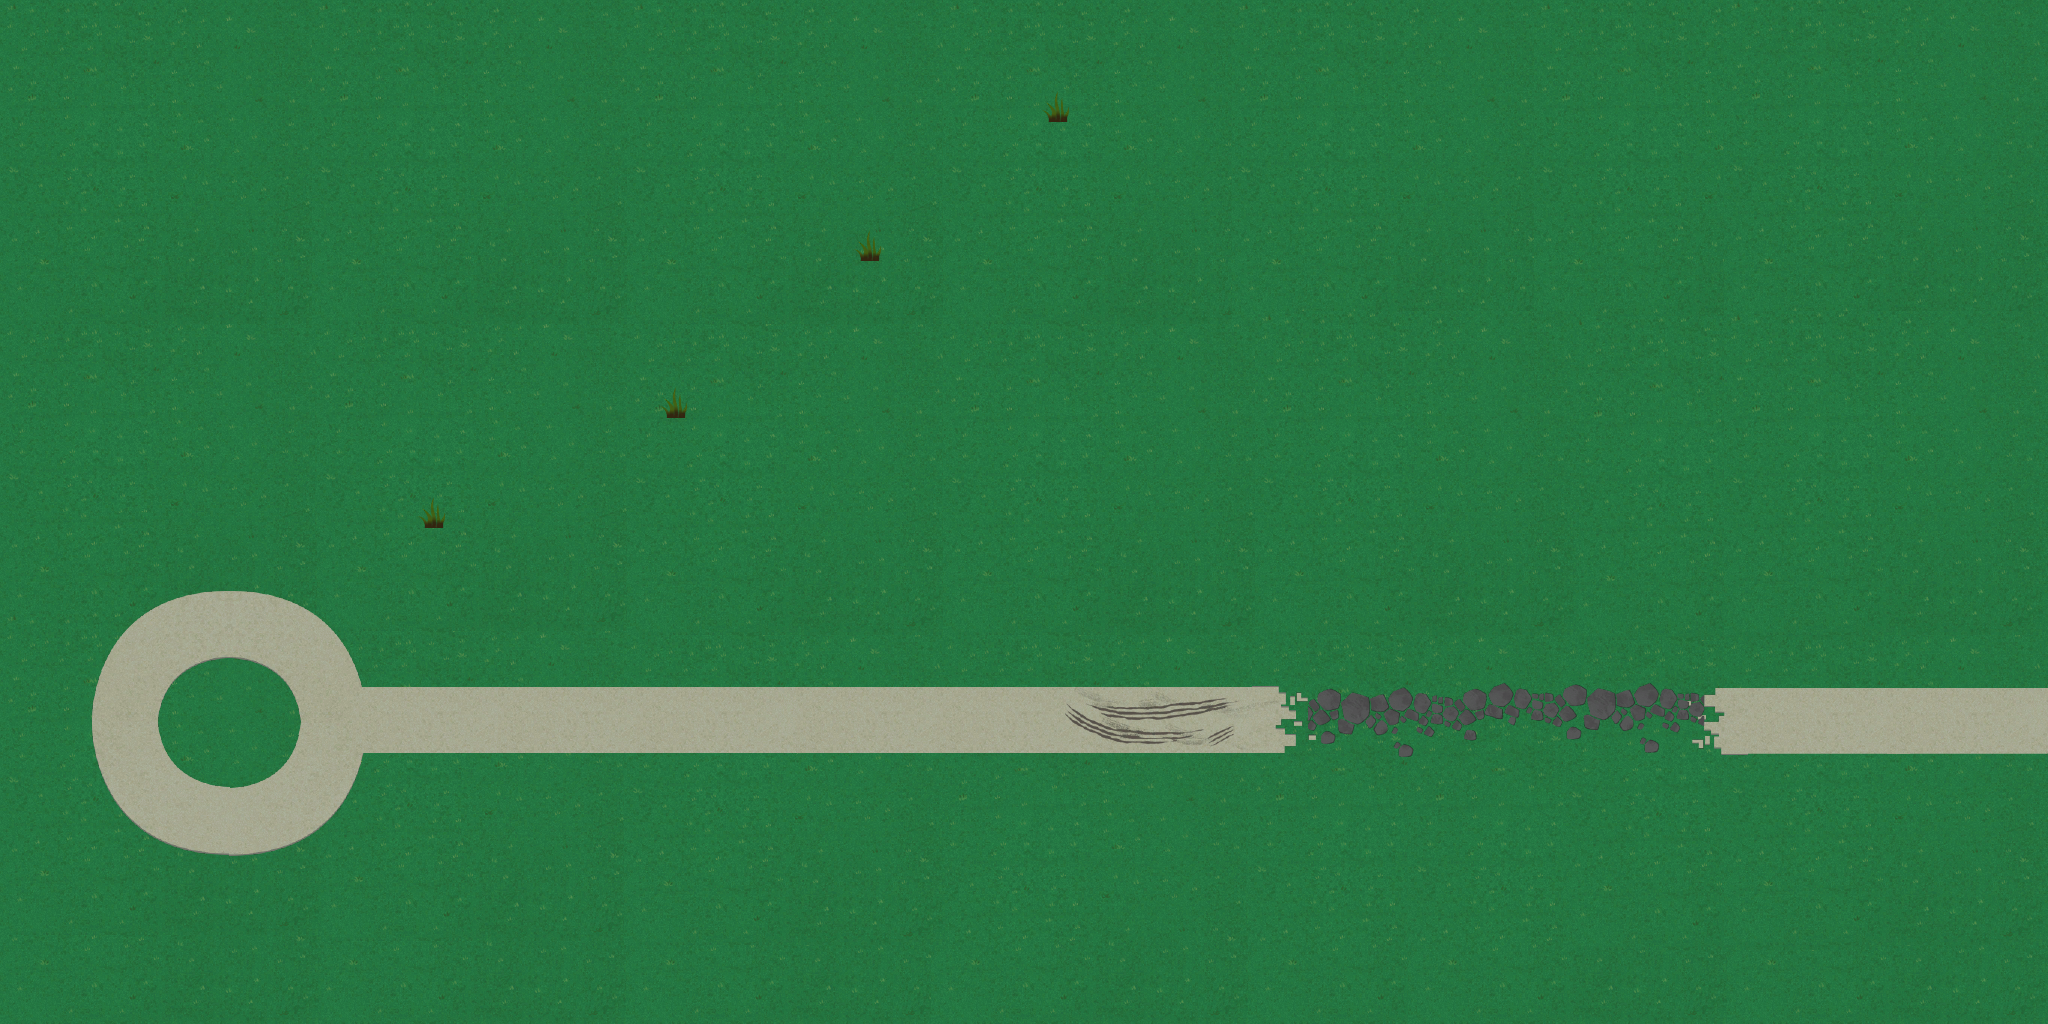
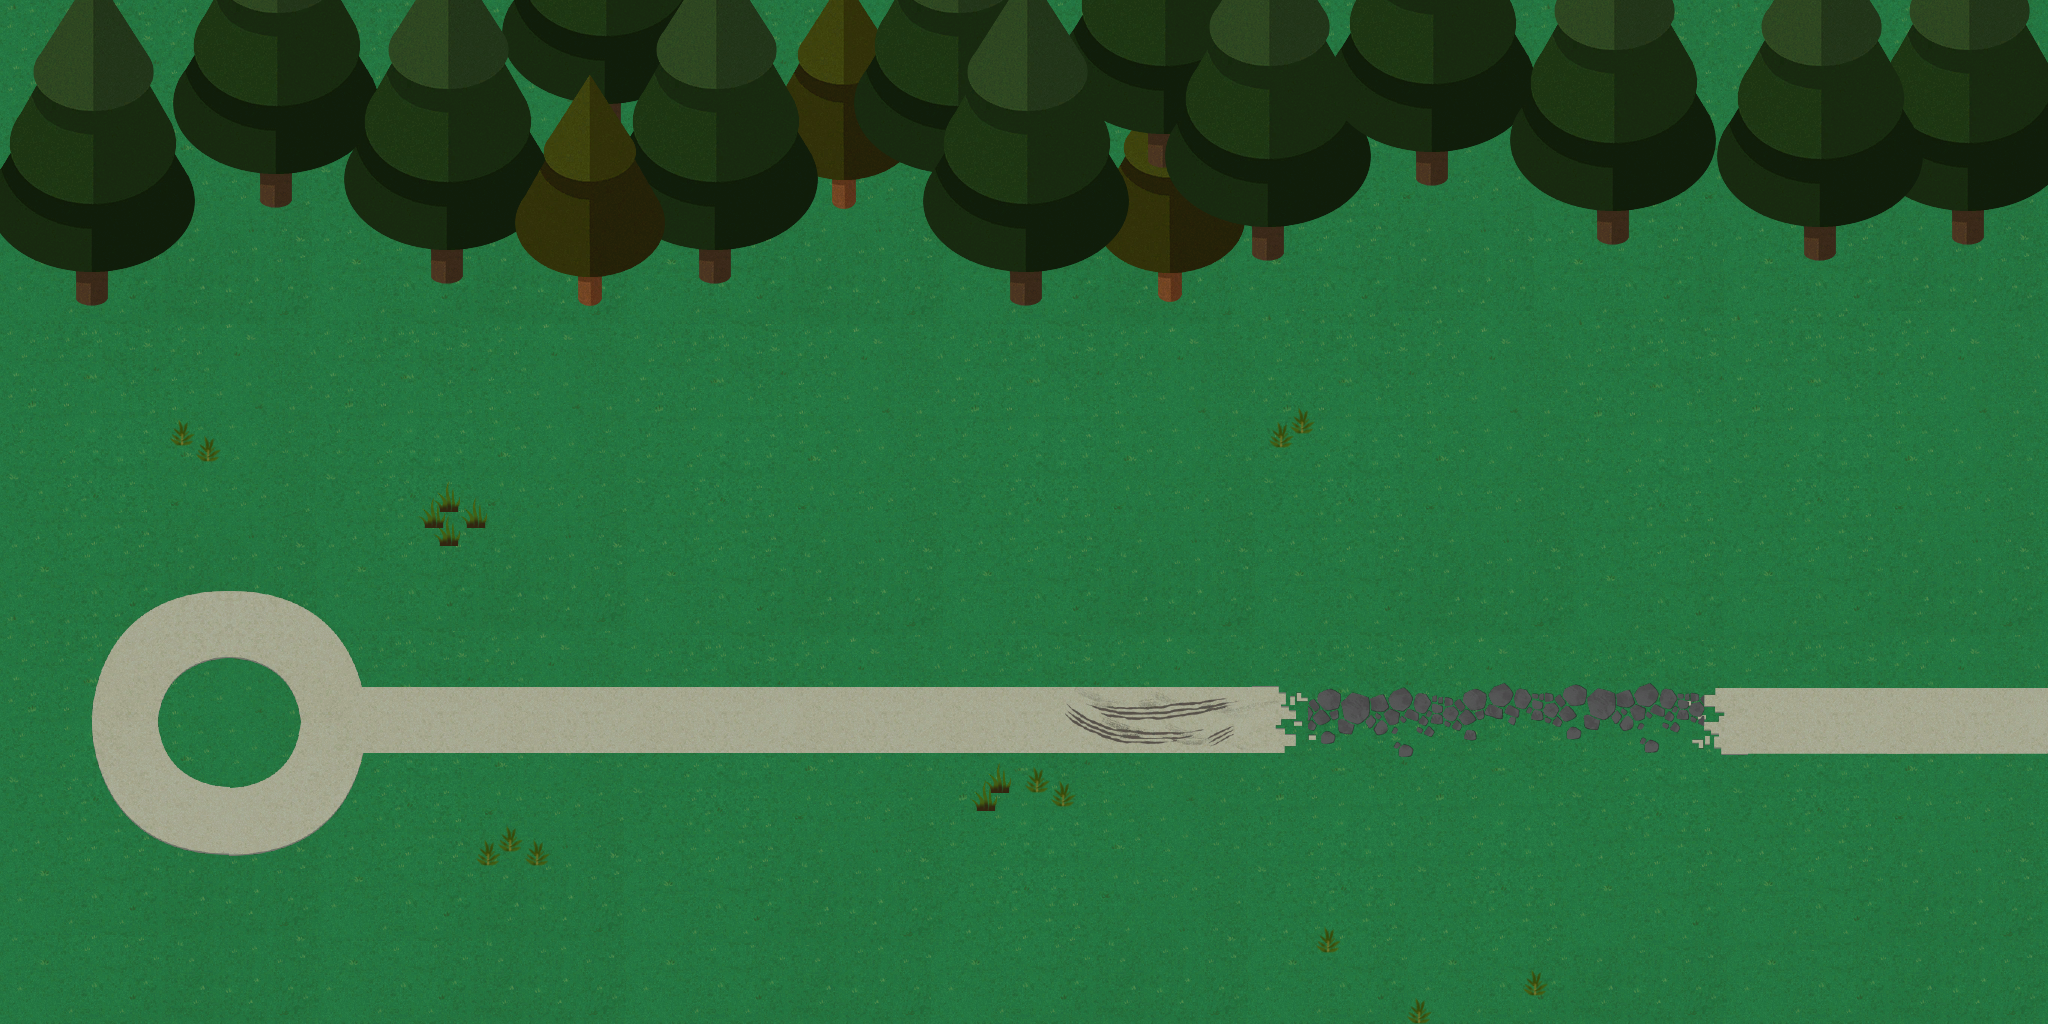
翻轉槍跟測試背景

diff --git a/src/weapon/Gun.java b/src/weapon/Gun.java
@@ -18,7 +18,8 @@ public class Gun extends GameObjForAnimator {
     private boolean canReloading;//是否在裝彈(裝彈中無法射擊)
     private boolean canShoot;
     private GunType gunType;
-    private Image img;
+    private Image imgForDisplay;
+    private Image imgForActor;
     private int positionX;
     private int positionY;
 
@@ -26,7 +27,8 @@ public class Gun extends GameObjForAnimator {
 
     public Gun(GunType gunType, int x, int y) {
         super(x, y, gunType.width, gunType.height, 0, 0, 0);
-        this.img = ImageController.getInstance().tryGet(gunType.path);
+        this.imgForDisplay = ImageController.getInstance().tryGet(gunType.forMapPath);
+        this.imgForActor = ImageController.getInstance().tryGet(gunType.forActorPath);
         this.positionX = x;
         this.positionX = y;
         this.gunType = gunType;
@@ -43,13 +45,14 @@ public class Gun extends GameObjForAnimator {
     }
 
     public enum GunType {
-        PISTOL("/weapon/pistol.png", 76, 32, Integer.MAX_VALUE, 15, 30, 60, 1),
-        UZI("/weapon/uzi.png", 76, 32, 160, 40, 7, 45, 5),
-        AK("/weapon/ak.png", 76, 32, 120, 30, 10, 90, 10),
-        SNIPER("/weapon/sniper.png", 76, 32, 30, 10, 60, 120, 1),
-        MACHINE_GUN("/weapon/machine.png", 76, 32, 150, 100, 5, 180, 1);
+        PISTOL("/weapon/pistol.png", "/actor/pistol.png",76, 32, Integer.MAX_VALUE, 15, 30, 60, 1),
+        UZI("/weapon/uzi.png", "/actor/uzi.png",76, 32, 160, 40, 7, 45, 5),
+        AK("/weapon/ak.png", "/actor/ak.png",76, 32, 120, 30, 10, 90, 10),
+        SNIPER("/weapon/sniper.png", "/actor/sniper.png",76, 32, 30, 10, 60, 120, 1),
+        MACHINE_GUN("/weapon/machine.png", "/actor/machine.png",76, 32, 150, 100, 5, 180, 1);
 
-        public String path;
+        public String forMapPath;
+        public String forActorPath;
         private int width;
         private int height;
         private int magazine;//彈匣
@@ -58,8 +61,9 @@ public class Gun extends GameObjForAnimator {
         private int maxMagazine;//最大彈匣數量
         private int beginShoot;
 
-        GunType(String path, int width, int height, int maxMagazine, int magazine, int shootingDelay, int reloadingDelay, int beginShoot) {
-            this.path = path;
+        GunType(String forMapPath,String forActorPath, int width, int height, int maxMagazine, int magazine, int shootingDelay, int reloadingDelay, int beginShoot) {
+            this.forMapPath = forMapPath;
+            this.forActorPath = forActorPath;
             this.width = width;
             this.height = height;
             this.maxMagazine = maxMagazine;
@@ -144,11 +148,11 @@ public class Gun extends GameObjForAnimator {
 
     @Override
     public void paintComponent(Graphics g){
-        g.drawImage(img,positionX,positionY,null);
+        g.drawImage(imgForDisplay,positionX,positionY,null);
     }
 
     public void paintComponent(Graphics g,int actorX,int actorY){
-        g.drawImage(img,actorX,actorY,null);
+        g.drawImage(imgForActor,actorX,actorY+25,null);
     }
 
     public int getSurplusBullet() {

diff --git a/src/util/Display.java b/src/util/Display.java
@@ -23,8 +23,8 @@ public class Display {
         isFirstGun = true;
         gun1Frame = ImageController.getInstance().tryGet("/display/frame1.png");
         gun2Frame = ImageController.getInstance().tryGet("/display/frame2.png");
-        currentGun = ImageController.getInstance().tryGet(gameActor.getCurrentGun().getGunType().path);
-        otherGun=ImageController.getInstance().tryGet(gameActor.gunOtherGun().getGunType().path);
+        currentGun = ImageController.getInstance().tryGet(gameActor.getCurrentGun().getGunType().forMapPath);
+        otherGun=ImageController.getInstance().tryGet(gameActor.gunOtherGun().getGunType().forMapPath);
         font1 = new Font("Curlz TM", Font.PLAIN, 20);
         font2=new  Font("Curlz TM", Font.PLAIN, 14);
     }

diff --git a/src/sence/MapScene.java b/src/sence/MapScene.java
@@ -43,7 +43,7 @@ public class MapScene extends Scene {
 
     @Override
     public void sceneBegin() {
-        map = ImageController.getInstance().tryGet("/map/map.png");
+        map = ImageController.getInstance().tryGet("/map/map-test2.png");
         mapInit();
         testBullets = new LinkedList<>();
         MapInformation.setMapInfo(0, 0, MAP_WIDTH, MAP_HEIGHT);
